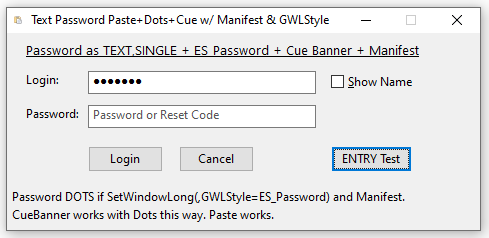
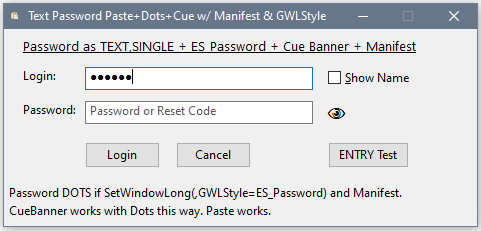
Peek Eye Hover

diff --git a/ReadMe.md b/ReadMe.md
@@ -15,6 +15,8 @@ Code changes are similar to Release 1, just a different function to call:
 - [ ] Change any code with `?{PROP:Password}=1/0` to `PasswordOnText_SetGwlStyle(?,0/1)`
 - [ ] *Optional:* In ?Pwd EVENT:Accepted call `PasswordAcceptedClipClean(?)` to clear the clipboard if the password was pasted
 
+4/9/2021 - Added a "Peek Eye" Icon (Webdings N) next to the Password field. When user hovers the mouse over the "Peek Eye" the password unhides.
+
 **Tip:** The ES_Password style must be set when the control is created, so adding the style to an existing control will not work. To get the RTL to Destroy and Create the control a property must be changed that the RTL recognizes as needing the Destroy+Create. The easiest is alignment with ``?Text{PROP:Right}=1 ; ?Text{PROP:Left}=1``. The RTL preserves the other style bits, like ES_Password. Thanks to Jim Kane for that tip, which he acknowledged Richard Chapman as the source. The desired style then was ES_NoHideSel that on TEXT shows the selection when the control loses focus, something nice for spell check.  Back in C6 setting PROP:Left=1 alone worked, but apparently an optimization checks if the alignment did not change.
 
 ---
